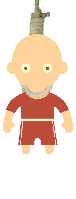
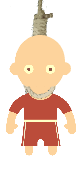
Add more staged to game by cropping images

diff --git a/script.js b/script.js
@@ -1,7 +1,9 @@
 let rope = '<img src="/img/hangman.png" alt="rope"></img>'
 let head = '<img src="/img/head.png" alt="head">'
 let body = '<img src="/img/headBody.png" alt="Body">'
-let hands = '<img src="/img/hands.png" alt="hands">'
+let leftHand = '<img src="/img/leftHand.png" alt="leftHand">'
+let bothHands = '<img src="/img/hands.png" alt="hands">'
+let leftLeg = '<img src="/img/leftLeg.png" alt="leftLeg">'
 let dead = '<img src="/img/dead.png" alt="dead">'
 let score = 0;
 let wg = 0
@@ -127,8 +129,12 @@ function incorrect(wrongGuesses) {
     } else if(wrongGuesses == 2) {
         document.querySelector('#display').innerHTML = body
     } else if(wrongGuesses == 3) {
-        document.querySelector('#display').innerHTML = hands
+        document.querySelector('#display').innerHTML = leftHand
     } else if(wrongGuesses == 4) {
+        document.querySelector('#display').innerHTML = bothHands
+    } else if(wrongGuesses == 5) {
+        document.querySelector('#display').innerHTML = leftLeg
+    } else if(wrongGuesses == 6) {
         document.querySelector('#display').innerHTML = dead
         wg = 0
         alert('You died')

diff --git a/styles.css b/styles.css
@@ -7,9 +7,10 @@
 }
 
 body {
-    background: #0F2027;  /* fallback for old browsers */
-    background: -webkit-linear-gradient(to right, #2C5364, #203A43, #0F2027);  /* Chrome 10-25, Safari 5.1-6 */
-    background: linear-gradient(to right, #2C5364, #203A43, #0F2027); /* W3C, IE 10+/ Edge, Firefox 16+, Chrome 26+, Opera 12+, Safari 7+ */
+    background: #1A2980;  /* fallback for old browsers */
+    background: -webkit-linear-gradient(to right, #26D0CE, #1A2980);  /* Chrome 10-25, Safari 5.1-6 */
+    background: linear-gradient(to right, #26D0CE, #1A2980); /* W3C, IE 10+/ Edge, Firefox 16+, Chrome 26+, Opera 12+, Safari 7+ */
+
     display: flex;
     justify-content: center;
 }
